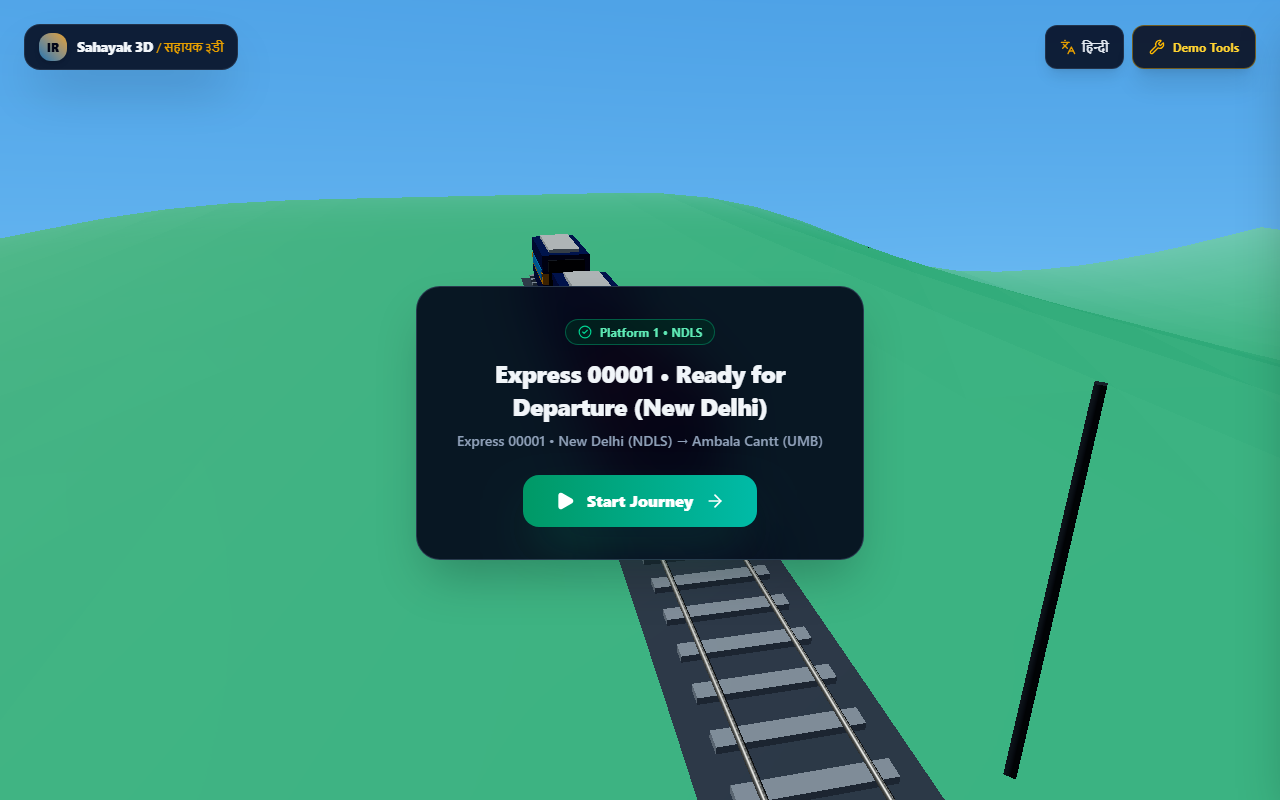
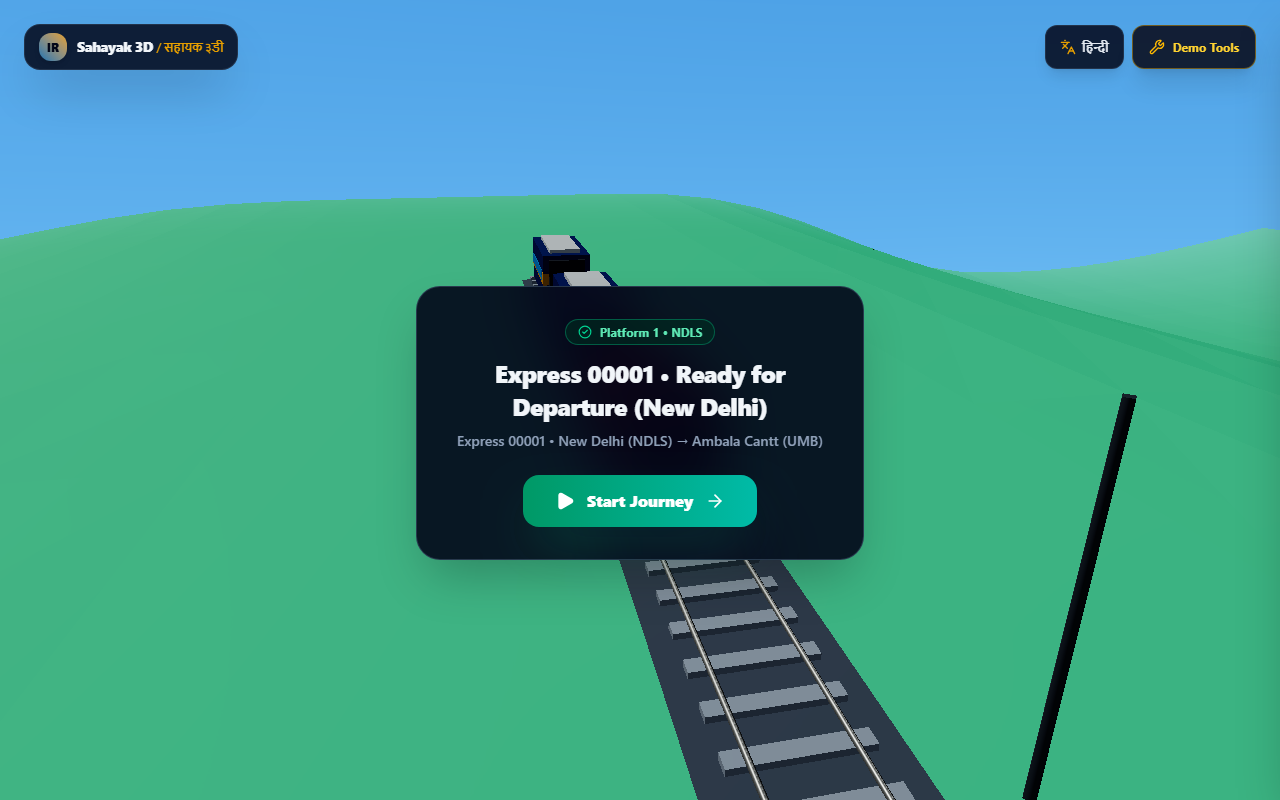
fix(physics): tune braking curve to smooth 3.7s stop before Signal 104 and add pixel diff test

Changed region(s): [[0.5, 0.6875, 0.7188, 1.0], [0.7812, 0.4688, 0.9062, 1.0]]

diff --git a/src/components/3d/Train.tsx b/src/components/3d/Train.tsx
@@ -99,9 +99,9 @@ export function Train() {
           }
         }
 
-        // Deceleration easing curve when delayed or stopped at red signal
+        // Deceleration easing curve when delayed or stopped at red signal (tuned for smooth ~4s stop)
         if (disruptionType === 'delay' || disruptionType === 'cancellation') {
-          journeyPhysics.speed = Math.max(0, THREE.MathUtils.lerp(journeyPhysics.speed, 0, delta * 1.6));
+          journeyPhysics.speed = Math.max(0, THREE.MathUtils.lerp(journeyPhysics.speed, 0, delta * 0.95));
         } else if (!approachingStation && journeyPhysics.stationStopTimer <= 0) {
           journeyPhysics.speed = THREE.MathUtils.lerp(
             journeyPhysics.speed,

diff --git a/src/store/journeyStore.ts b/src/store/journeyStore.ts
@@ -297,7 +297,7 @@ export const useJourneyStore = create<JourneyState>((set, get) => ({
     // Short dramatic slow-motion beat when disruption triggers (unless reduced motion is active)
     const currentStore = get();
     if (disruptionType !== 'none' && !currentStore.reducedMotion) {
-      journeyPhysics.speed = Math.max(0.015, journeyPhysics.speed * 0.35);
+      journeyPhysics.speed = Math.max(0.015, journeyPhysics.speed * 0.70);
     }
     journeyPhysics.targetSpeed = targetSpeed;
 

diff --git a/DEVPOST_SUBMISSION.md b/DEVPOST_SUBMISSION.md
@@ -121,7 +121,7 @@ Most railway tools present static timetables or uninformative "Late by 45 mins" 
 | :---: | :--- | :--- | :--- |
 | **0:00 – 0:20** | **The Moving Corridor**<br>Chase camera following 5-coach train at sunset. | *"Every day, millions ride Indian Railways. But when unexpected delays hit, passengers are left in the dark. Welcome to Sahayak 3D — a moving rail corridor and disruption decision companion."* | Camera switches to Cinematic Side view; sound loco horn. |
 | **0:20 – 0:45** | **The Disruption & Signal 104**<br>Signal 104 turns red; train decelerates with brake sparks. | *"Disruption simulated: Signal 104 ahead turns red. Our train decelerates to a stop. Immediately, the Decision Engine analyzes viable choices with genuine trade-offs."* | Click "Trigger Delay (Signal 104)"; show polite live banner. |
-| **0:45 – 1:10** | **The Ethical Decision Cards**<br>Ranked cards appear showing real trade-offs. | *"Notice the options: Holding on track is free with 4/5 comfort, but a chord bypass detour saves 22 minutes with an honest trade-off — 3/5 comfort and unreserved seating."* | Hover/focus on Chord Detour; point out confidence (82%) and time saved. |
+| **0:45 – 1:10** | **The Ethical Decision Cards**<br>Ranked cards appear showing real trade-offs. | *"Notice the options: Holding on track is free with 4/5 comfort, but a chord bypass detour saves 22 minutes with an honest trade-off — 3/5 comfort and unreserved seating."* | Click "Preview Route" on Chord Detour card; point out confidence (82%) and time saved. |
 | **1:10 – 1:30** | **The Reroute Execution**<br>Train smoothly switches onto the glowing chord branch. | *"We approve the bypass reroute. The switch lights up, and the train smoothly blends onto the chord track at 60 frames per second without stutter."* | Click "Approve Bypass Reroute"; camera follows train through switch frog. |
 | **1:30 – 1:40** | **Family Live Share Payoff**<br>Smartphone frame opens. | *"Passengers don't travel in a vacuum. With Family Share, simulated live status, coach number, and safety verification are instantly visible to loved ones at home."* | Open Family Share modal; show battery status and "Simulated Passenger Status". |
 | **1:40 – 1:50** | **Hindi Localization (10s)**<br>Toggle to Hindi (हिन्दी). | *"Language inclusivity: With one click, the entire UI, 3D station signboards, and decision intelligence translate into Devanagari Hindi."* | Click "हिन्दी"; show "समय पर", "सिग्नल १०४", and Hindi station board. |

diff --git a/README.md b/README.md
@@ -3,7 +3,7 @@
 
 [![Accessibility: Lighthouse 100 & Axe Passed](https://img.shields.io/badge/Accessibility-Lighthouse%20100%20%7C%20Axe%200%20Violations-009E73?style=for-the-badge)](./a11y-statement.md)
 [![Lighthouse: 100/100/100](https://img.shields.io/badge/Lighthouse-100%20A11y%20%7C%20100%20SEO%20%7C%20100%20Best%20Practices-0072B2?style=for-the-badge)](./a11y-statement.md)
-[![Decision Engine: 6/6 Tests](https://img.shields.io/badge/Decision%20Engine-6%2F6%20Deterministic%20Tests%20Passing-E69F00?style=for-the-badge)](#running-unit-tests)
+[![Decision Engine: 9/9 Tests](https://img.shields.io/badge/Decision%20Engine-9%2F9%20Deterministic%20Tests%20Passing-E69F00?style=for-the-badge)](#running-unit-tests)
 
 ---
 
@@ -123,7 +123,11 @@ Running Decision Engine deterministic tests...
 ✔ Test 4: Missed connection provides shortcut with 84% hedged confidence passed
 ✔ Test 5: Cancellation provides guaranteed seat transfer with fee protection passed
 ✔ Test 6: Platform change provides crossover and battery cart accessibility passed
-All 6 Decision Engine Unit Tests PASSED successfully!
+✔ Test 7: Disruption resolution successfully links dynamic option attributes passed
+✔ Test 8: Disruption undo successfully restores pre-disruption state passed
+✔ Test 9: All 11 generated options across disruptions contain complete dynamic fields passed
+
+All 9 Decision Engine & FSM Unit Tests PASSED successfully!
 ```
 
 ---
